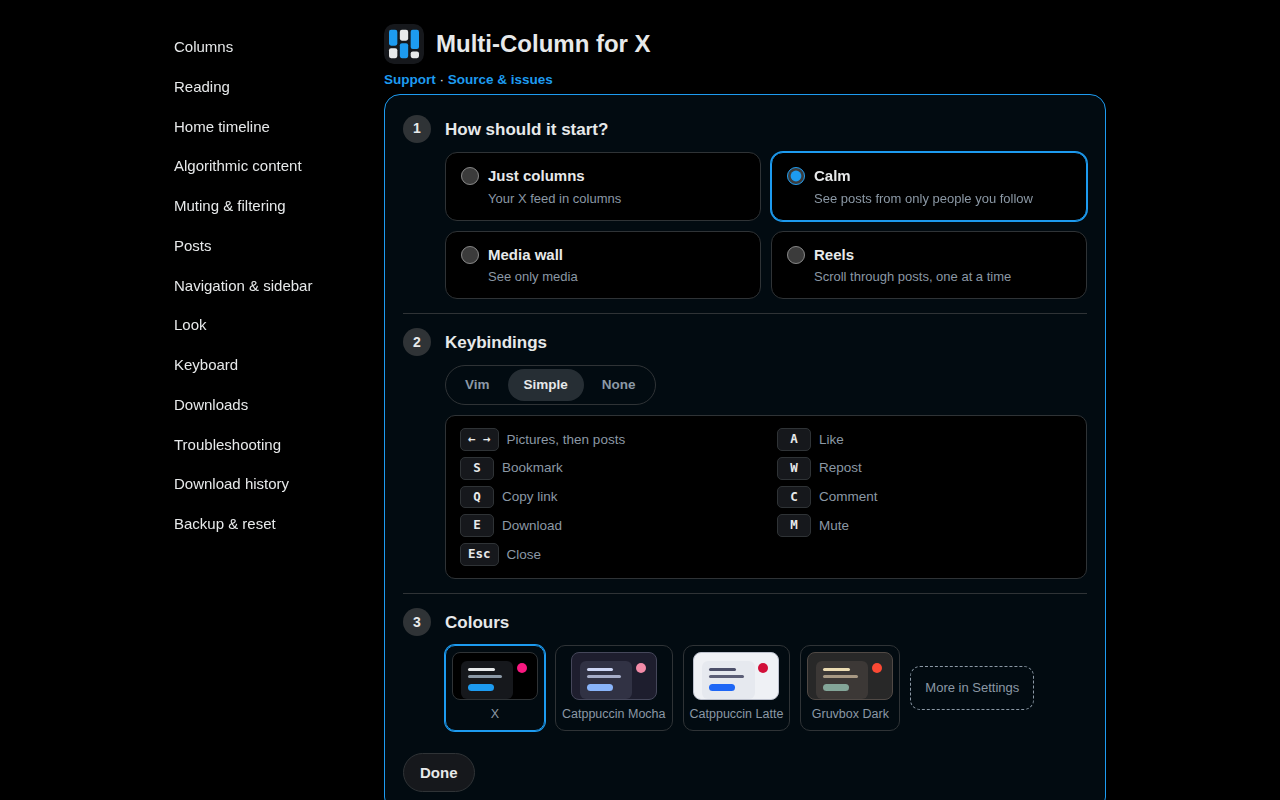
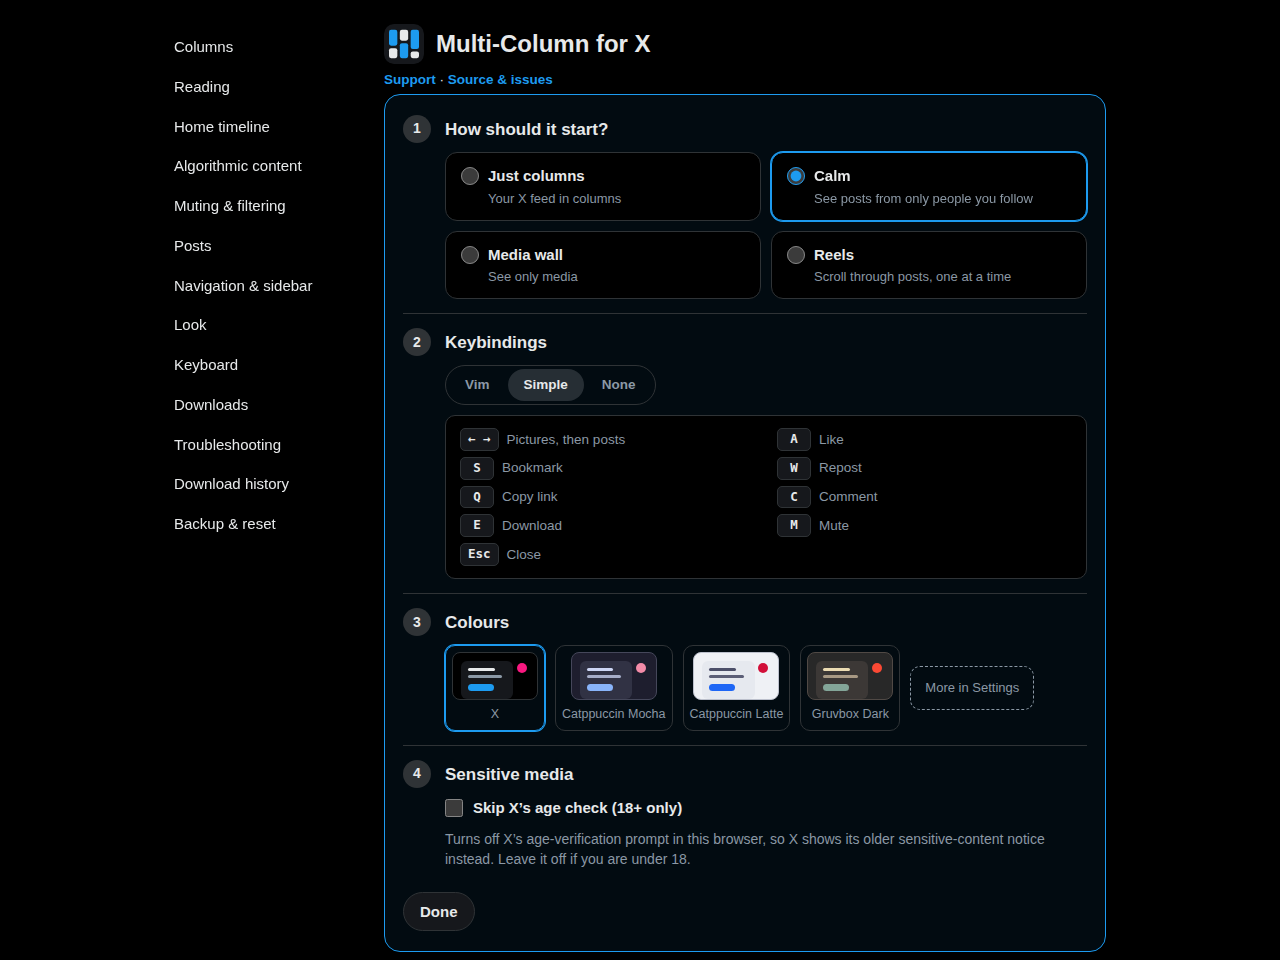
Store: the welcome shot shows the age-check step
Claude-Session: https://claude.ai/code/session_018kEDBPkK9jgvVfS9DEM5ks

diff --git a/store/make-screenshots.js b/store/make-screenshots.js
@@ -364,7 +364,7 @@ async function main() {
   await ctx.close();
 
   // 12. the starting points, on the page the install opens
-  ctx = await context(1280, 800, Object.assign({}, S.PRESETS.find((p) => p.id === 'calm').set), 'dark');
+  ctx = await context(1280, 960, Object.assign({}, S.PRESETS.find((p) => p.id === 'calm').set), 'dark'); // (tall enough for all the steps, the age-check box included)
   page = await ctx.newPage();
   await page.goto(server.origin + '/ext/options.html?welcome=1');
   await page.waitForSelector('#welcome .wchoice', { timeout: 8000 });
